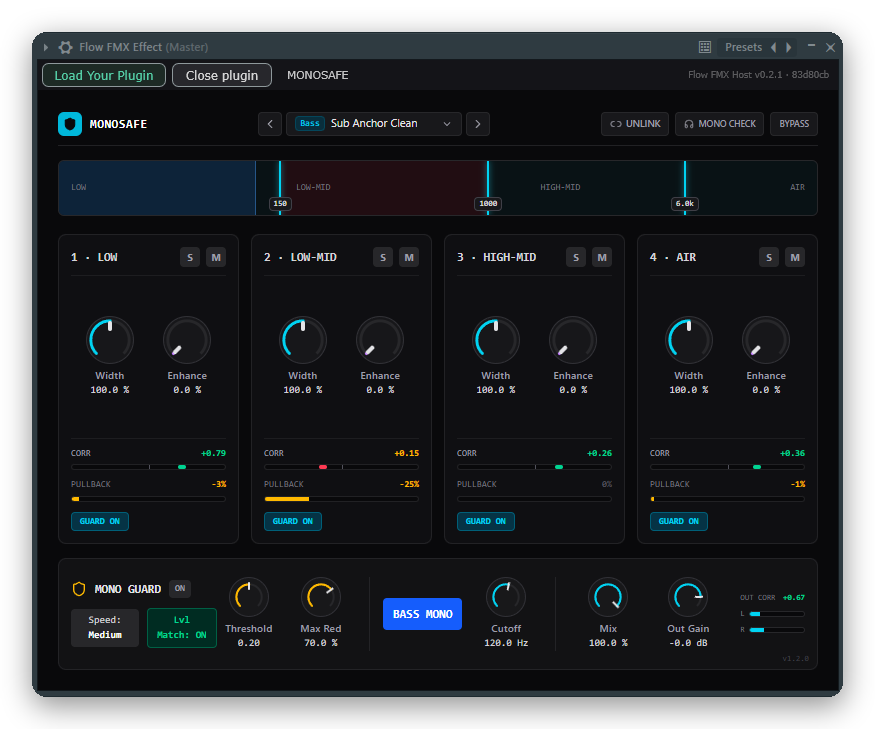
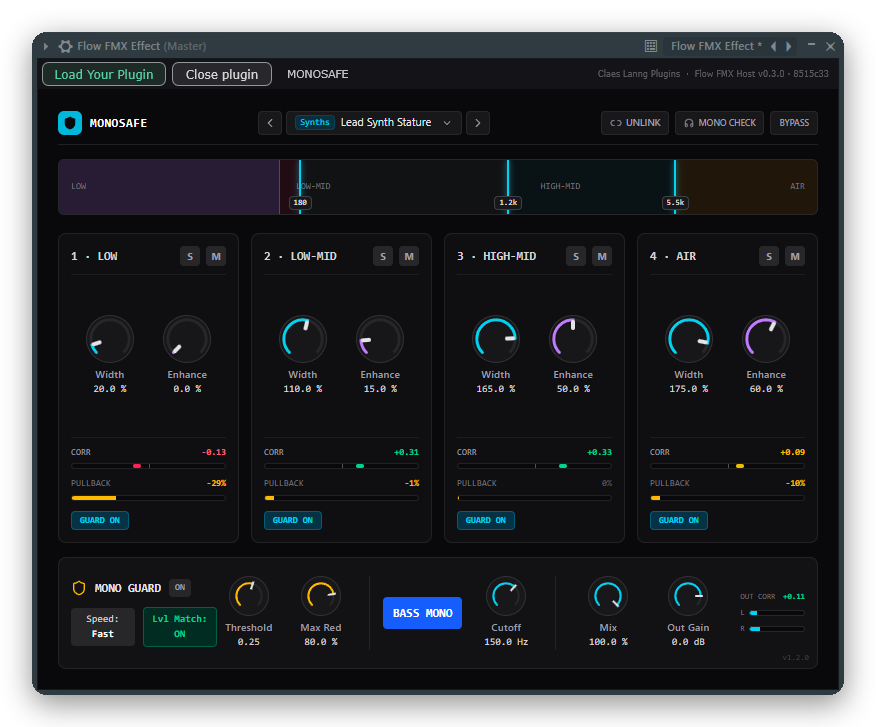
README: remove old header screenshot, update examples to v0.3.0
Claude-Session: https://claude.ai/code/session_01PC7LNHMGRdJ6QAuUHAvsah

diff --git a/README.md b/README.md
@@ -13,10 +13,6 @@ by **Claes Lanng Plugins**
 
 [**⬇ Download the latest version**](https://github.com/claeslanng/flow-fmx-host/releases/latest) · [Examples](#example-plugins) · [Install guide](#installation) · [How it works](#how-it-works)
 
-<br>
-
-<img src="docs/images/instrument.png" alt="Flow FMX Instrument running the Studio Sampler plugin" width="820">
-
 </div>
 
 ---
